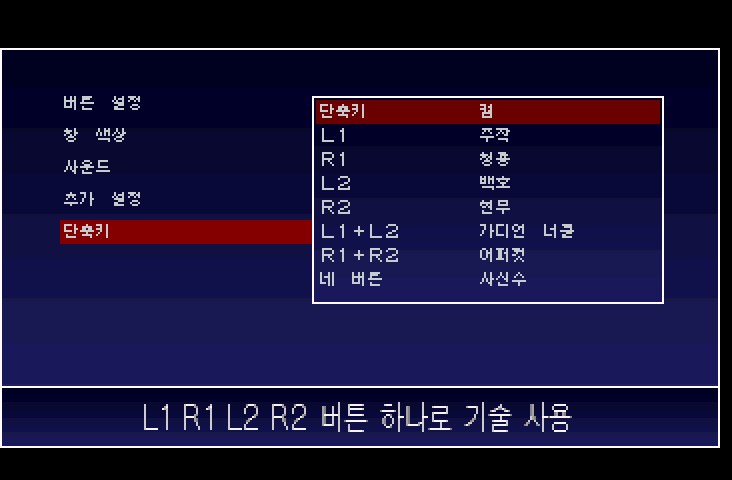
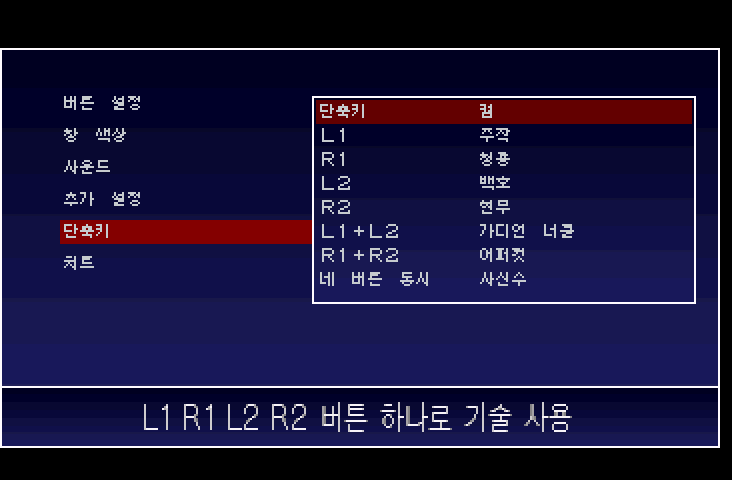
v2.1.5: run toggle in Ric/Maria extra settings, weapon technique list, refreshed screenshots

diff --git a/patcher/sotn_core.py b/patcher/sotn_core.py
@@ -19,7 +19,7 @@ import threading
 import zlib
 
 CHUNK = 4 * 1024 * 1024
-VERSION = "v2.1.4"
+VERSION = "v2.1.5"
 DEFAULT_NAME = "SOTN Ultimate (Korean)"
 CUE_TEXT = 'FILE "{name}.bin" BINARY\n  TRACK 01 MODE2/2352\n    INDEX 01 00:00:00\n'
 

diff --git a/README.md b/README.md
@@ -1,4 +1,4 @@
-# 악마성 드라큘라 X 월하의 야상곡 얼티메이트 (PS1) — 한글 패치 v2.1.4 (원본 v1.5용)
+# 악마성 드라큘라 X 월하의 야상곡 얼티메이트 (PS1) — 한글 패치 v2.1.5 (원본 v1.5용)
 
 <p align="center"><img src="images/title.png" width="480" alt="한글 제목 화면"></p>
 
@@ -6,7 +6,7 @@
 
 **목표는 '영어 0개'.** 대사, 메뉴, 아이템, 지역 이름, 제목·불러오는 중 화면 그림까지 한글로 바꿨습니다.
 
-**[⬇ 패치 내려받기 (v2.1.4)](https://github.com/kanx030/sotn-ultimate-ps1-kr/releases/tag/ult-v1.5)** · 한글 패처로 새로 패치하거나 예전 한글판을 업데이트할 수 있습니다. [아래](#패치하는-법)를 보세요.
+**[⬇ 패치 내려받기 (v2.1.5)](https://github.com/kanx030/sotn-ultimate-ps1-kr/releases/tag/ult-v1.5)** · 한글 패처로 새로 패치하거나 예전 한글판을 업데이트할 수 있습니다. [아래](#패치하는-법)를 보세요.
 
 ## 특징
 
@@ -25,9 +25,15 @@
 ### 🎮 편의 기능
 - **버튼 배치 선택**: 일시정지 → 설정 → 추가 설정 → "버튼"에서 ○ 결정 / × 결정을 고릅니다(세이브에 저장).
 - 켤 때 코나미 영상을 건너뛰어 제목 화면이 빨리 뜹니다.
-- **기본 달리기 켬/끔** (세 캐릭터, 세이브에 저장): 일시정지 메뉴 첫 화면에서 **L1** 로 바꾸고, 상태 화면에 'L1: 기본 달리기 켬/끔' 이 보입니다. 알카드는 설정 → 추가 설정 → '기본 달리기' 로도 바꿉니다.
+- **기본 달리기 켬/끔** (세 캐릭터, 세이브에 저장): 일시정지 메뉴 첫 화면에서 **L1**, 또는 설정 → 추가 설정 → '기본 달리기' 로 바꿉니다. 상태 화면에 'L1: 기본 달리기 켬/끔' 이 보입니다.
   - 켬: 리히터·새턴 마리아는 방향키를 누르면 바로 달리고 진행 방향을 두 번 누르면 걷습니다. 알카드는 신속의 신발을 켜 두면 늘 달립니다.
   - 끔: 원작과 같습니다. (PSP 마리아는 원작에 느린 걷기가 없어 해당 없음)
+
+| 추가 설정 '기본 달리기' (리히터) | 추가 설정 '기본 달리기' (알카드) |
+|---|---|
+| <img src="images/extra_richter.png" width="320"> | <img src="images/extra_alucard.png" width="320"> |
+| **상태 화면 (리히터)** | **상태 화면 (알카드)** |
+| <img src="images/status_richter.png" width="320"> | <img src="images/status_alucard.png" width="320"> |
 - **장서관 상점**: 처음 방문부터 모든 물건을 살 수 있습니다(엔딩을 본 것과 같은 상태).
 - **리히터·마리아 메뉴**(원작 v1.5 새 기능): 상태·기술 목록·설정·추가 설정까지 한글. 이름과 '기술'은 알카드 메뉴와 같은 큰 글자.
 - 대사·메뉴의 한글은 도트 글꼴 **갈무리(Galmuri)**로 통일했습니다. (메인 메뉴 머리글은 큰 첫 글자에 맞춰 Noto Serif KR)
@@ -51,11 +57,23 @@
 | L2+R2 | 테트라 스피릿 |
 | 네 버튼 동시 | 소울 스틸 |
 
-고정: 박쥐 변신 중 L1+R1 윙 스매시, 늑대 변신 중 L1+R1 울프 차지, 검마 소환 중 위+L1+R1 백 개로 하나인 검, 공격 버튼을 누른 채 R1 / R2 무기 필살기 1 / 2.
+고정: 박쥐 변신 중 L1+R1 윙 스매시, 늑대 변신 중 L1+R1 울프 차지, 검마 소환 중 위+L1+R1 백 개로 하나인 검.
+
+**무기 필살기**: 공격 버튼(그 무기를 든 손의 버튼)을 누른 채 **R1** = 필살기 1(↓↘→+공격), **R2** = 필살기 2(←→+공격). 필살기가 없는 무기면 원래 R1·R2 기능(변신)이 그대로 나갑니다.
+
+| 무기 | R1 (↓↘→) | R2 (←→) |
+|---|:-:|:-:|
+| 새벽의 검, 웨어 버스터, 레이피어, 쇼텔, 카타나, 카이저 너클, 주얼 소드 | ○ | |
+| 아그니의 염검, 인드라의 뇌검, 라하브의 빙검, 홀리 소드, 레바테인, 다인슬레이프 | ○ | |
+| 알카드 소드, 문 로드, 마사무네, 아스트랄 대거 | ○ | |
+| 실드 로드, 바젤라드, 클레이모어, 플랑베르주, 츠바이핸더, 흑요석의 검, 홀리 로드, 스타 플레일 | | ○ |
+| 컴뱃 나이프, 오리하르콘, 비젠 오사후네, 알카드 스피어 | ○ | ○ |
 
 | 단축키 설정 (리히터) | 단축키 설정 (새턴 마리아) |
 |---|---|
 | <img src="images/shortcut_richter.png" width="320"> | <img src="images/shortcut_saturn.png" width="320"> |
+
+<p align="center"><img src="images/shortcut_alucard.png" width="320" alt="단축키 설정 (알카드)"><br>단축키 설정 (알카드)</p>
 
 ### 🛠 치트
 - **알카드**: 일시정지 → 설정 → 치트 (HP/MP/하트 무한, 무적, 골드, 마도기·마법·아이템·장비 전부, 능력치 99, 레벨 업, 소환 중인 사역마 레벨 업)
@@ -101,13 +119,13 @@
 ### 방법 1: 한글 패처 (권장)
 <p align="center"><img src="images/patcher.png" width="420" alt="한글 패처"></p>
 
-1. 릴리스에서 `SOTN_Ultimate_KR_Patcher_v2.1.4.zip` 을 받아 풀고, `월하_한글패처.exe` 와 `patch`·`tools` 폴더를 같은 곳에 둡니다.
+1. 릴리스에서 `SOTN_Ultimate_KR_Patcher_v2.1.5.zip` 을 받아 풀고, `월하_한글패처.exe` 와 `patch`·`tools` 폴더를 같은 곳에 둡니다.
 2. `월하_한글패처.exe` 를 실행하고 롬 파일이 있는 폴더를 고릅니다. **bin/cue, CHD, iso** 를 알아서 찾고,
    **원본인지 예전 한글판인지, 몇 번째 판인지** 확인해서 알맞은 패치를 고릅니다.
 3. 원본이면 저장 방식(BIN/CUE 또는 CHD)과 이름을 정하고 [패치 시작]을 누릅니다.
 4. **예전 한글판이면 원본 없이 최신 판으로 업데이트**됩니다. 원래 자리에서 같은 이름·같은 형식(CHD 는 CHD 로)으로 바뀌어
    에뮬레이터 목록을 다시 정리할 필요가 없습니다. 이미 최신 판이면 "이미 최신입니다"라고 알려 줍니다.
-   - **원본 v1.4용 한글판도 v1.5 원본 없이 바로 v2.1.4로** 바뀝니다: 11-14 업데이트 ~ v2.0.4 (11-13 판은 원본으로 새로 패치)
+   - **원본 v1.4용 한글판도 v1.5 원본 없이 바로 v2.1.5로** 바뀝니다: 11-14 업데이트 ~ v2.0.4 (11-13 판은 원본으로 새로 패치)
 5. 결과가 최신 한글판과 똑같은지 패처가 CRC32·SHA-256·MD5 로 확인합니다. 확인 전에는 원래 파일을 건드리지 않습니다.
 
 ### 방법 2: xdelta 로 직접 (원본에서 새로 만들 때만)
@@ -118,9 +136,9 @@
      - xdelta3 (명령줄, 공식 배포): https://github.com/jmacd/xdelta/releases (윈도우는 `xdelta3-…-windows-x86_64.zip`)
    - **xdelta UI 로 적용**
      1. xdelta UI 를 실행하고 'Apply Patch' 탭을 엽니다.
-     2. Patch 에 `sotn_ult_kr_v2.1.4_v1.5.xdelta`, Source File 에 원본 bin, Output File 에 `sotn_kr.bin` 을 지정합니다.
+     2. Patch 에 `sotn_ult_kr_v2.1.5_v1.5.xdelta`, Source File 에 원본 bin, Output File 에 `sotn_kr.bin` 을 지정합니다.
      3. 'Patch' 를 누르면 `sotn_kr.bin` 이 만들어집니다.
-   - **xdelta3 로 적용**: `xdelta3 -d -s "SOTN Ultimate (PS1 Version) v1.5.bin" sotn_ult_kr_v2.1.4_v1.5.xdelta sotn_kr.bin`
+   - **xdelta3 로 적용**: `xdelta3 -d -s "SOTN Ultimate (PS1 Version) v1.5.bin" sotn_ult_kr_v2.1.5_v1.5.xdelta sotn_kr.bin`
 3. 아래 내용을 메모장에 붙여 넣어 `sotn_kr.cue` 로 저장하고, `sotn_kr.bin` 과 같은 폴더에 둔 뒤 cue 파일로 실행합니다.
 
 ```
@@ -130,13 +148,15 @@ FILE "sotn_kr.bin" BINARY
 ```
 
 ## 확인 환경
-- RetroArch + SwanStation, 덕스테이션(데스크톱·안드로이드)
+- RetroArch + SwanStation, RetroArch + Beetle PSX HW, 덕스테이션(데스크톱·안드로이드)
 - 바이오스: 북미판 PS1 바이오스(SCPH-1001 등). 일본 바이오스는 북미 디스크를 거부합니다(원본·정품도 같음).
 
 ## 알려진 점
 - 덕스테이션에서 맞거나 변신할 때 알카드 그림이 가끔 깨지면 설정 → 영상(그래픽) → **텍스처 캐시 끄기**.
 - 에뮬레이터 상태 저장(스테이트)은 판이 바뀌면 호환되지 않습니다. 영문판이나 다른 한글판에서 찍은 스테이트를 불러오면 음악만 나오고 화면이 멈출 수 있습니다. 메모리카드 세이브는 그대로 쓸 수 있습니다.
 - 빠른 부팅·CD 읽기 가속·8MB 램은 끄는 것을 권합니다.
+- Beetle PSX 에서 버튼이 먹지 않으면 1번 컨트롤러 종류를 아날로그(DualShock)에서 기본 컨트롤러(PlayStation Controller)로 바꿔 보세요.
+- v2.1 ~ v2.1.2 는 Beetle PSX·MiSTer·실기에서 세이브를 불러온 뒤 화면이 멈출 수 있습니다(v2.1.3 에서 고침). 패처로 최신 판으로 바꿔 주세요.
 - 원작 v1.5의 리히터·마리아 메뉴 추가 설정에는 '버튼'(○/× 결정) 줄이 없습니다. 새 게임은 직전에 고른 배치로 시작합니다.
 - 사운드 모드의 새 곡 이름 'Guardian'은 글자 칸이 모자라 영어 그대로입니다.
 - 원본 v1.4용 한글판은 [ult-v1.4 릴리스](https://github.com/kanx030/sotn-ultimate-ps1-kr/releases/tag/ult-v1.4)(v2.0.4)에 그대로 있습니다.
